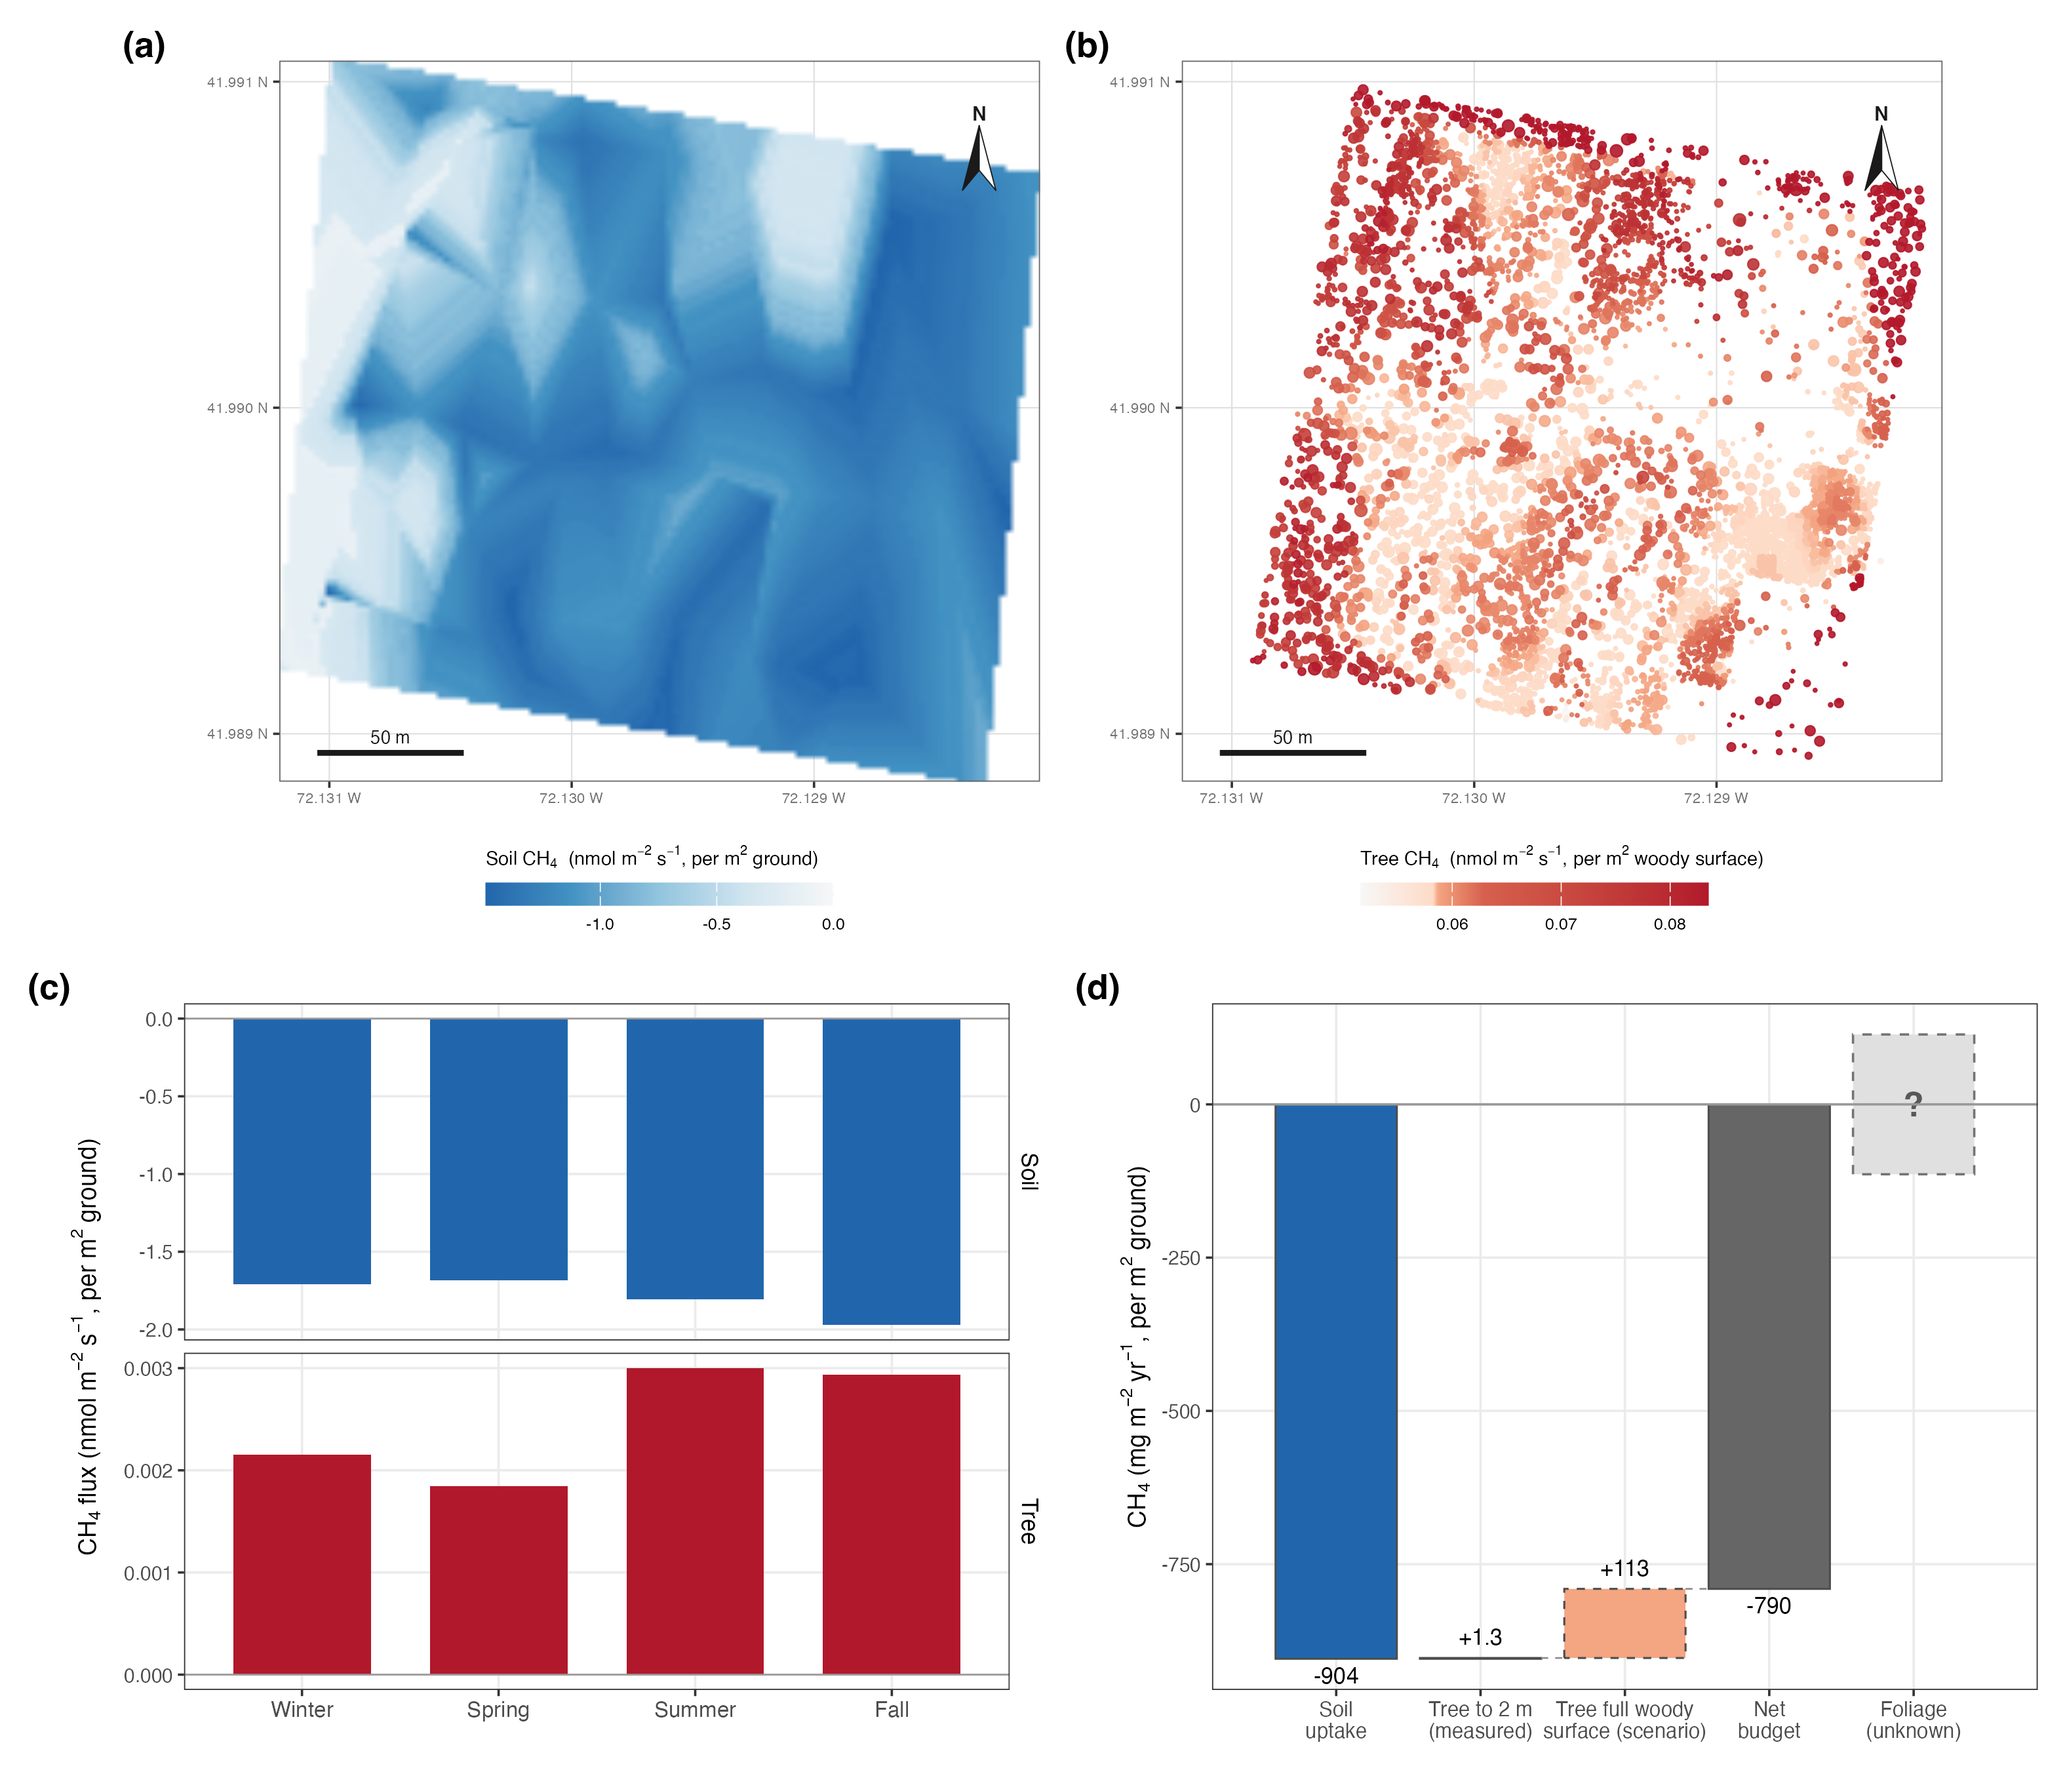
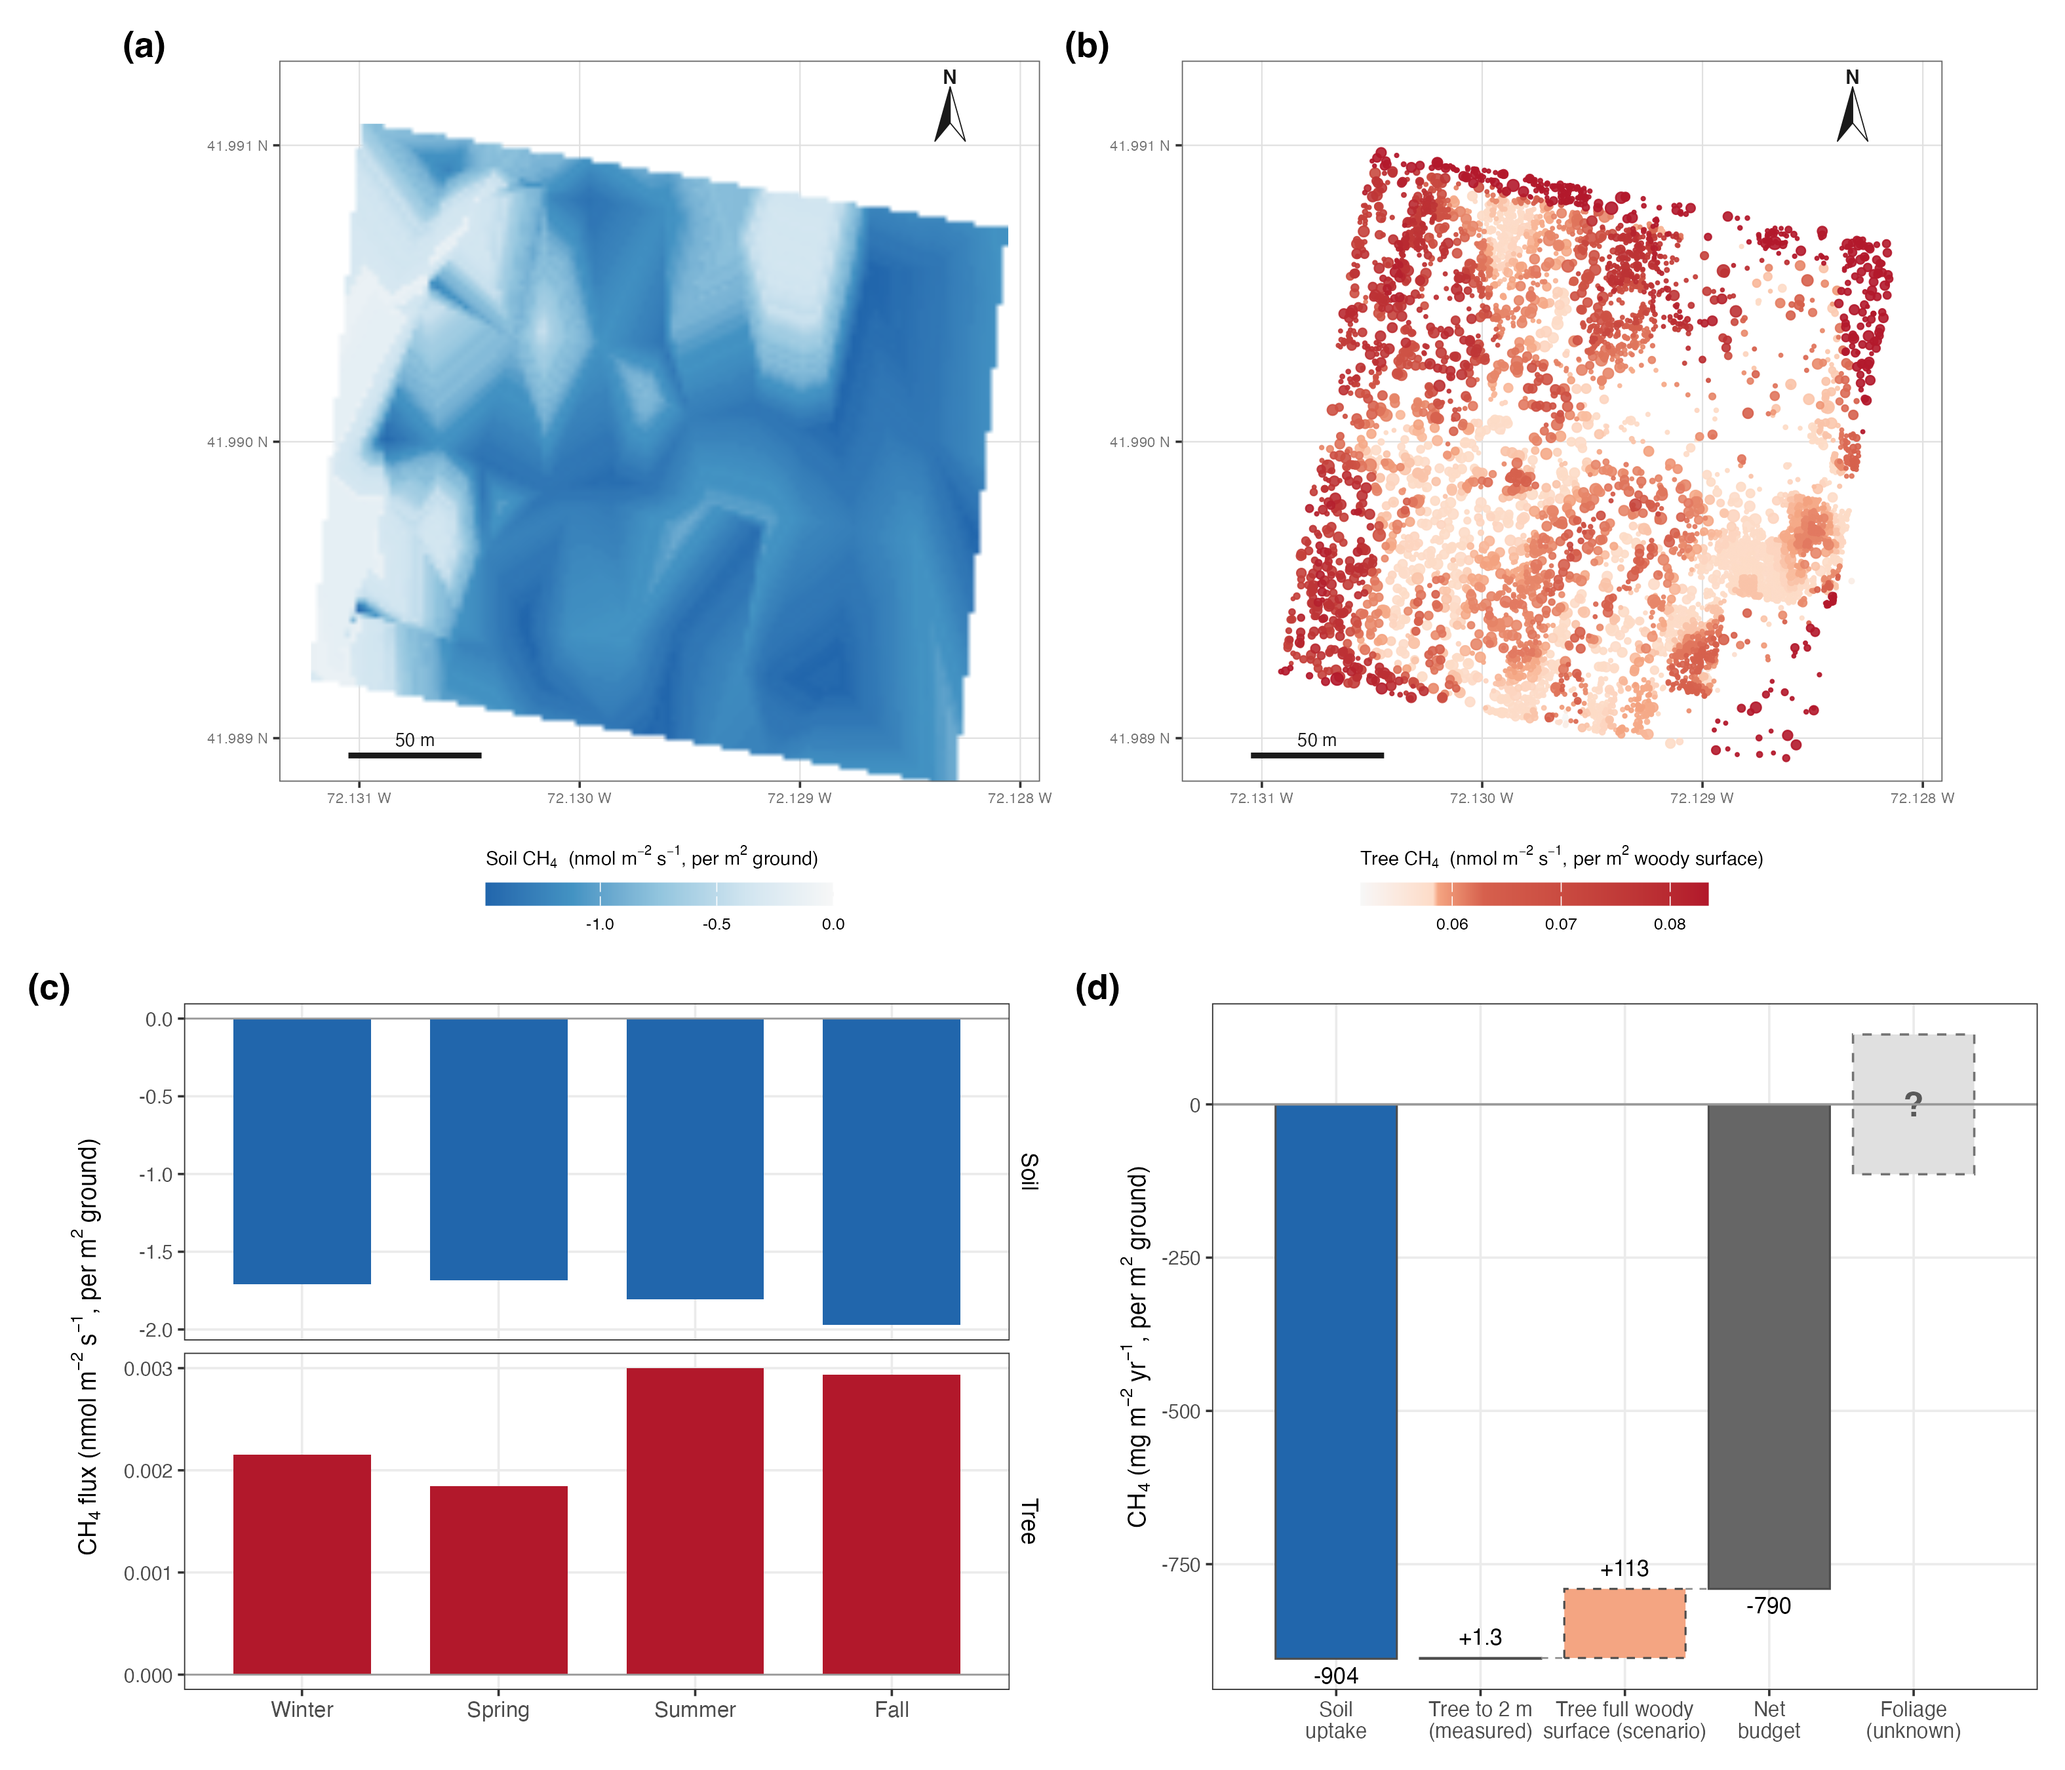
Assemble: insert S22 RF-calibration; renumber plant-traits S22->S23; refresh Fig2/Fig9

Changed region(s): [[0.5911, 0.0311, 0.9333, 0.4356], [0.1244, 0.0311, 0.5289, 0.4667], [0.3111, 0.28, 0.3733, 0.3111]]

diff --git a/outputs/revision/figures/MANIFEST.md b/outputs/revision/figures/MANIFEST.md
@@ -41,7 +41,8 @@ SI order = reference order (see notes/REVISION_INVENTORY.md); S16 & S21 placemen
 | Figure_S19_scale-dependent-genes | `outputs/revision/figS11_final.png` |
 | Figure_S20_radial-sections | `outputs/figures/supplementary/figS13_tree_radial_sections.png` |
 | Figure_S21_rf-flux-predictions | `outputs/figures/supplementary/figS15_rf_predictions.png` |
-| Figure_S22_plant-traits | `outputs/revision/traits_heatmap_robust.png` |
+| Figure_S22_rf-calibration | `outputs/revision/figS_rf_calibration.png` |
+| Figure_S23_plant-traits | `outputs/revision/traits_heatmap_robust.png` |
 
 ## Photo plates
 
